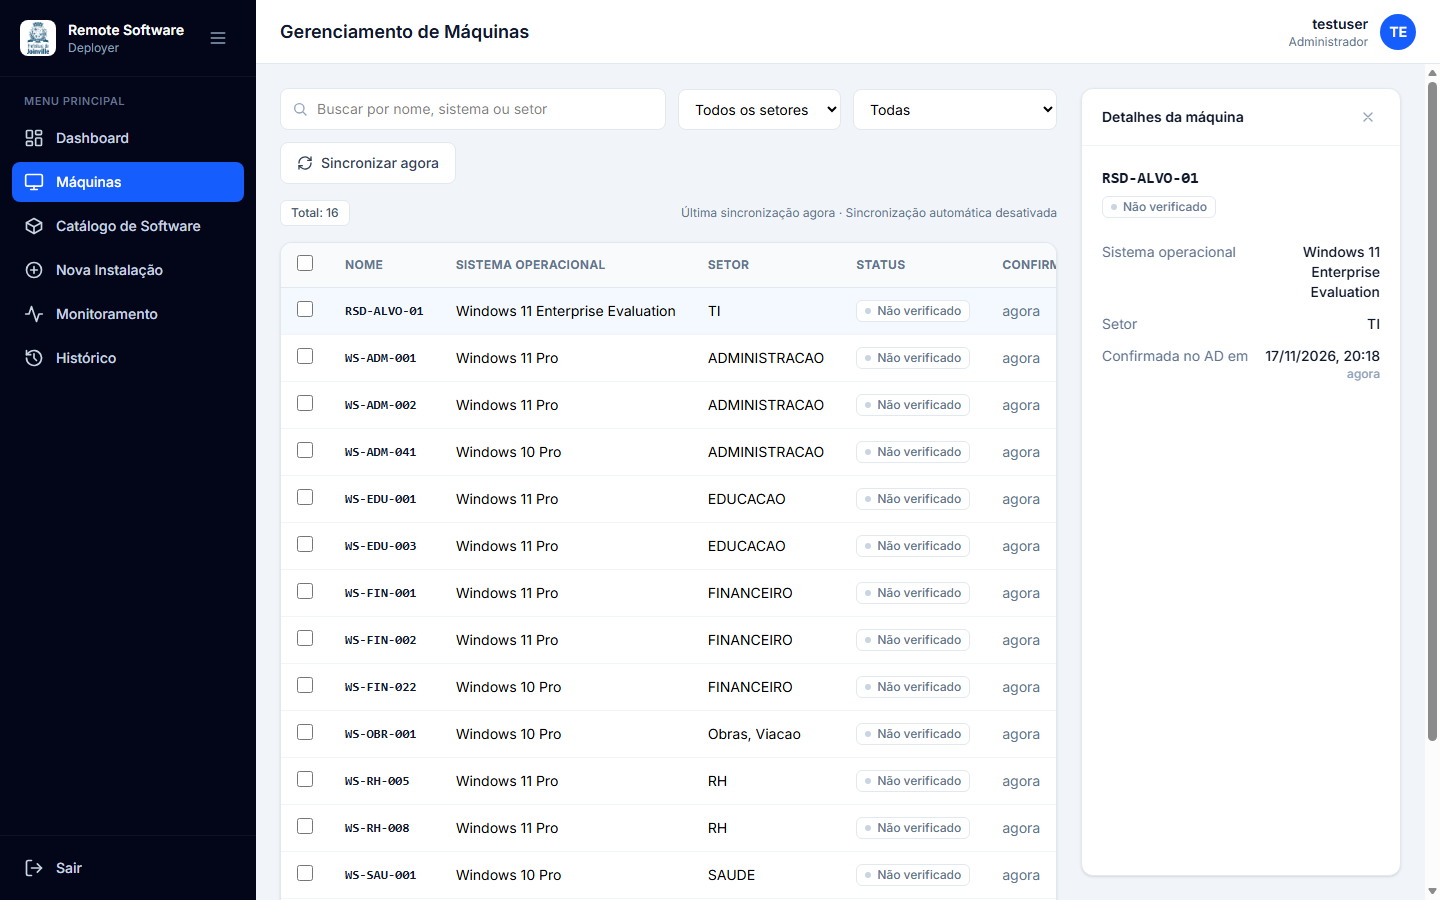
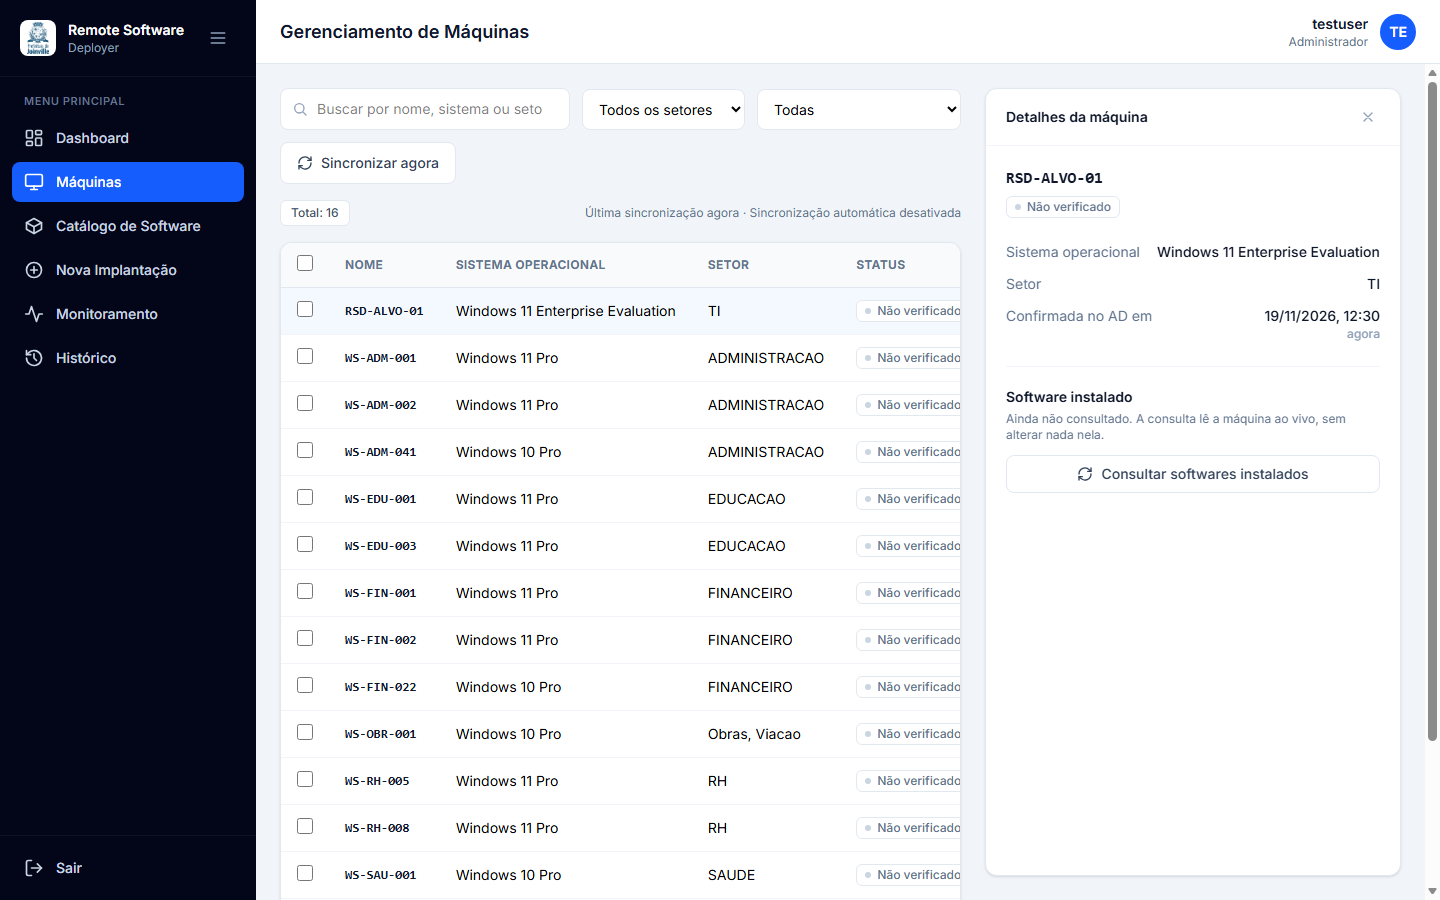
docs: registra inventário (RF08) no README
RF08 passa a pronto: consulta ao vivo do software instalado no painel da máquina, só de leitura, com a marcação do catálogo e a última consulta guardada. Inventário entra nas decisões de segurança e nas limitações (foto do momento, sem programas por usuário, marcação só para MSI). Prints refeitos com o menu Nova Implantação e o novo print do inventário.

diff --git a/README.md b/README.md
@@ -22,7 +22,8 @@ O Remote Software Deployer centraliza esse trabalho num navegador:
    próprio sistema;
 4. acompanha a instalação em cada máquina, com o passo atual e o log;
 5. consulta depois o histórico de tudo o que foi instalado, por quem e com qual
-   resultado.
+   resultado;
+6. consulta, ao vivo, o software instalado numa máquina.
 
 Nada precisa ser instalado antes nas estações: o sistema usa recursos que o Windows já
 tem (WinRM e o compartilhamento administrativo).
@@ -83,7 +84,7 @@ clássicos de migração, o NestJS 12 só publica ESM e o TypeScript 7 quebra o 
 | RF05 | Executar instalação remota | ✅ Fila com até 10 máquinas em paralelo e uma instalação por vez em cada máquina. Validado numa VM de laboratório (ver [Limitações](#limitações-conhecidas)). |
 | RF06 | Acompanhar status | ✅ Monitoramento com as implantações em andamento e as encerradas nas últimas 24 h. Cada uma expande na própria linha, com a fase de cada máquina (conectando, copiando, conferindo o hash, instalando…), atualizada a cada 3 s. |
 | RF07 | Histórico de instalações | ✅ Implantações encerradas, com filtros por período, ação, status, software, máquina e "Minhas implantações", e paginação. Os filtros ficam no link. |
-| RF08 | Inventário de software instalado por máquina | ⏳ **Trabalho futuro.** Depende de consulta ao vivo pelo WinRM, já validada na prova de conceito, mas não implementada. |
+| RF08 | Inventário de software instalado por máquina | ✅ No painel da máquina: consulta ao vivo pelo WinRM, só de leitura, com nome, versão, fabricante, data de instalação e ProductCode. Os MSI do catálogo aparecem marcados, com atalho para desinstalar. A última consulta fica guardada, com data e quem consultou. |
 | RF09 | Registrar resultado | ✅ Status e código de saída por máquina. Os códigos do Windows Installer (1603, 1618…) aparecem com mensagem explicativa. |
 | RF10 | Mensagens de sucesso e falha | ✅ Cada falha diz a fase e o motivo (máquina não encontrada, WinRM recusado, acesso negado, hash diferente, tempo esgotado…). |
 | RF11 | Pesquisar e filtrar máquinas | ✅ Busca por nome, sistema ou setor; filtro por setor e por presença no AD. |
@@ -115,7 +116,7 @@ Na Nova Implantação, o passo do software tem a escolha **Instalar / Desinstala
 | **Login** com a conta de rede<br/>![Login](docs/img/01-login.png) | **Máquinas** sincronizadas com o AD, com o painel de detalhes<br/>![Máquinas](docs/img/03-maquinas.png) |
 | **Catálogo de Software**: tipo, tamanho e implantações<br/>![Catálogo](docs/img/04-catalogo.png) | **Nova Implantação**, revisão com o comando exato que será executado<br/>![Nova Implantação](docs/img/05-nova-instalacao-revisao.png) |
 | **Monitoramento**, com a implantação expandida na própria linha e o log da máquina<br/>![Monitoramento](docs/img/06-monitoramento.png) | **Histórico** com filtros, uma implantação parcial expandida<br/>![Histórico](docs/img/07-historico.png) |
-| **Desinstalação** (só MSI), revisão com o comando exato<br/>![Desinstalação](docs/img/08-desinstalacao-revisao.png) | |
+| **Desinstalação** (só MSI), revisão com o comando exato<br/>![Desinstalação](docs/img/08-desinstalacao-revisao.png) | **Software instalado** na máquina (RF08), consultado ao vivo<br/>![Inventário](docs/img/09-inventario.png) |
 
 Os prints foram feitos no ambiente de desenvolvimento, só com dados fictícios: as
 máquinas `WS-*` vêm do OpenLDAP local, e a `RSD-ALVO-01` é uma VM de laboratório. O
@@ -153,8 +154,16 @@ que a VM concluiu e a outra máquina, fictícia, falhou por não existir na rede
   serviço do Windows sob uma **conta de serviço gerenciada (gMSA)**, e o WinRM usa a
   identidade do processo via Kerberos, sem senha em arquivo. Quem *pediu* a implantação
   fica registrado.
+- **Inventário só de leitura.** A consulta do software instalado (RF08) usa outro script
+  fixo ([`backend/scripts/inventory-target.ps1`](backend/scripts/inventory-target.ps1)),
+  que só lê as chaves Uninstall do registro, de 64 e 32 bits.
+  - Na máquina, nada é copiado e nenhum processo é iniciado.
+  - **Nunca `Win32_Product`:** consultar essa classe faz o Windows Installer verificar e
+    reparar cada MSI instalado.
+  - No teste com a VM, a consulta não gerou nenhum evento do Windows Installer.
 - **Permissões por perfil no backend.** Toda rota exige o token JWT. Implantar,
-  cancelar e alterar o catálogo exigem ADMIN ou OPERATOR. O VIEWER só consulta.
+  cancelar, alterar o catálogo e consultar o software instalado ao vivo exigem ADMIN ou
+  OPERATOR. O VIEWER só consulta, inclusive a última lista de software guardada.
 - **Auditoria.** O sistema registra quem cadastrou e quem alterou cada software, quem
   pediu e quem cancelou cada implantação, e o log de cada máquina.
 - **Segredos fora do repositório.** Só os `.env.example` são versionados. Os dados de
@@ -303,6 +312,12 @@ Recomenda-se um checkpoint da VM limpa: cada teste deixa o software instalado.
 - **Desinstalação só para MSI, e por versão:** o ProductCode é o da versão cadastrada no
   catálogo. Se a máquina tiver outra versão do produto, o resultado é "não estava
   instalado"; para removê-la, cadastra-se o MSI dessa versão.
+- **Inventário:**
+  - **é uma foto:** a lista mostra o momento da consulta, com data e quem consultou;
+  - **programas instalados só para um usuário não aparecem:** eles ficam no perfil
+    desse usuário, e a sessão WinRM roda com a conta de serviço;
+  - **a marcação "no catálogo" vale só para MSI,** pelo ProductCode. Um EXE não tem
+    como ser comparado com segurança.
 - **Um EXE pode reiniciar a máquina por conta própria.** O sistema controla o reinício
   do MSI, mas não o de um instalador EXE que o force internamente.
 - **Fila e agendamento em memória, num único processo.** Com mais de uma instância do
@@ -313,9 +328,8 @@ Recomenda-se um checkpoint da VM limpa: cada teste deixa o software instalado.
 
 ## Trabalhos futuros
 
-- **Inventário de software por máquina (RF08):** consulta ao vivo pelo WinRM
-  (`Get-Package` mais leitura do registro, já validados na prova de conceito),
-  reaproveitando a conexão da implantação.
+- **Busca por software em todas as máquinas** ("em quais máquinas está o X?"): exigiria
+  guardar o inventário item a item, e não só a última foto de cada máquina.
 - **Desinstalação de EXE:** exigiria descobrir, por família de instalador (Inno Setup,
   NSIS, InstallShield…), o desinstalador e os argumentos silenciosos de cada produto.
 - **Agente nas estações:** eliminaria a cópia pelo servidor, que limita a banda, e
